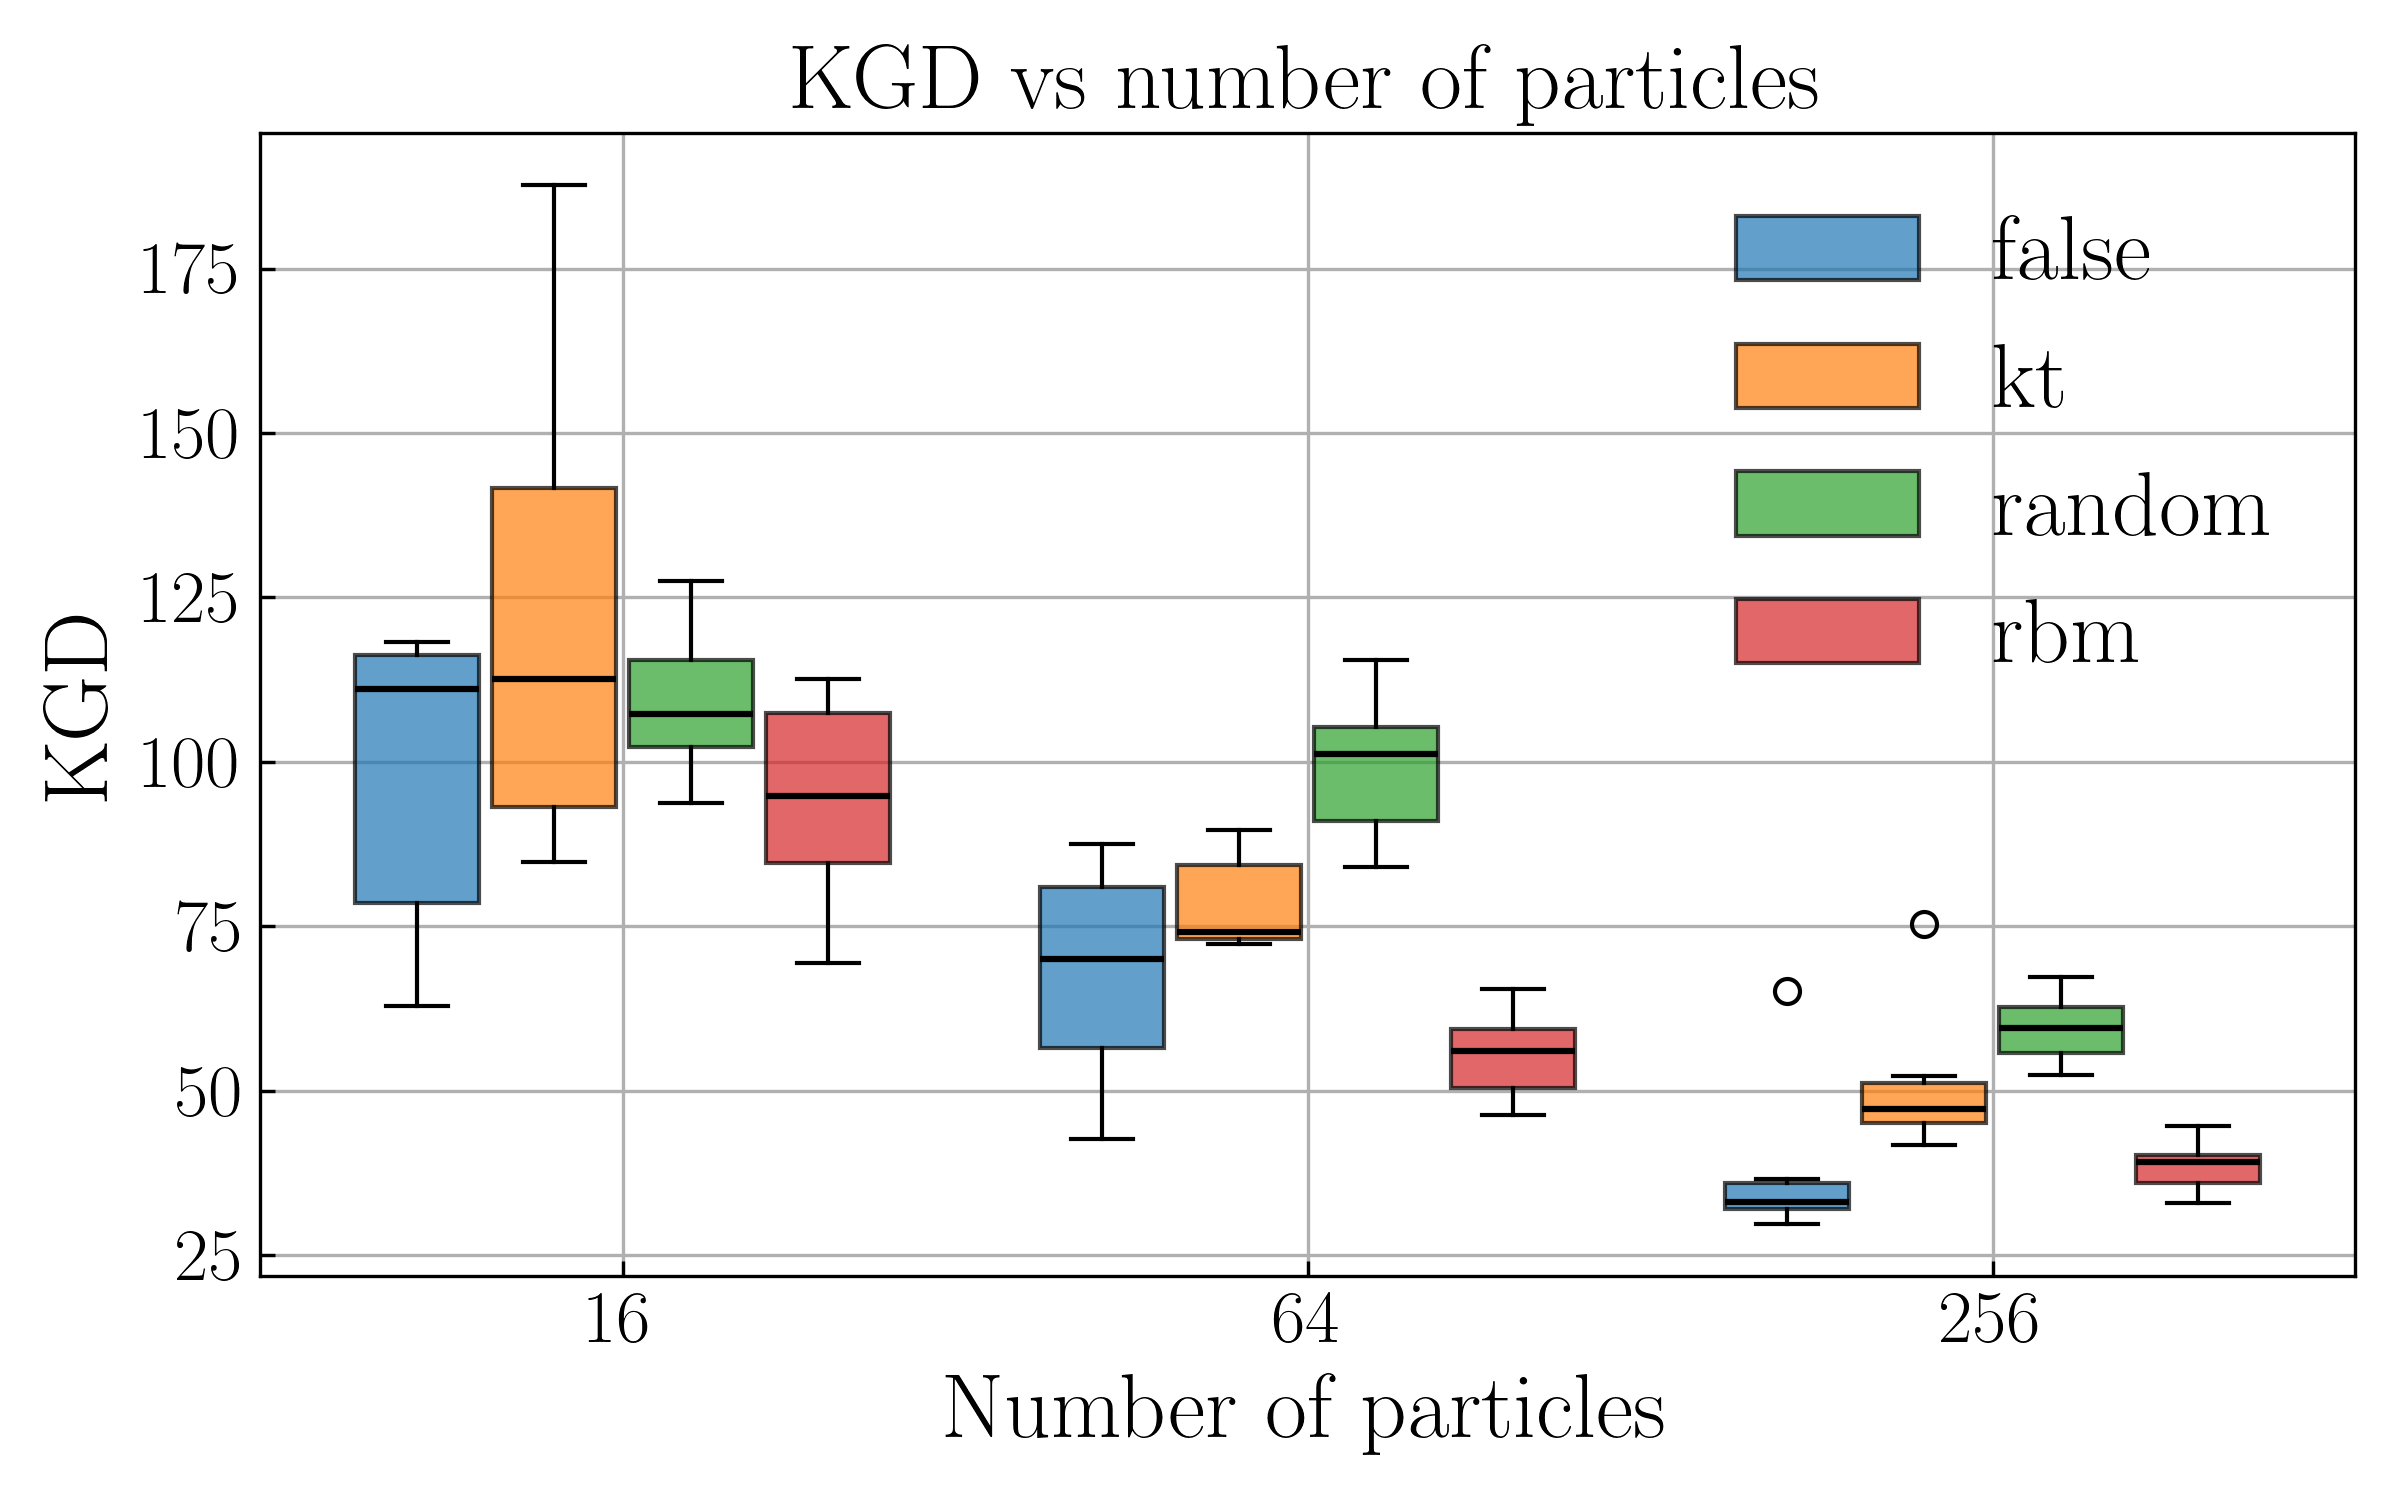
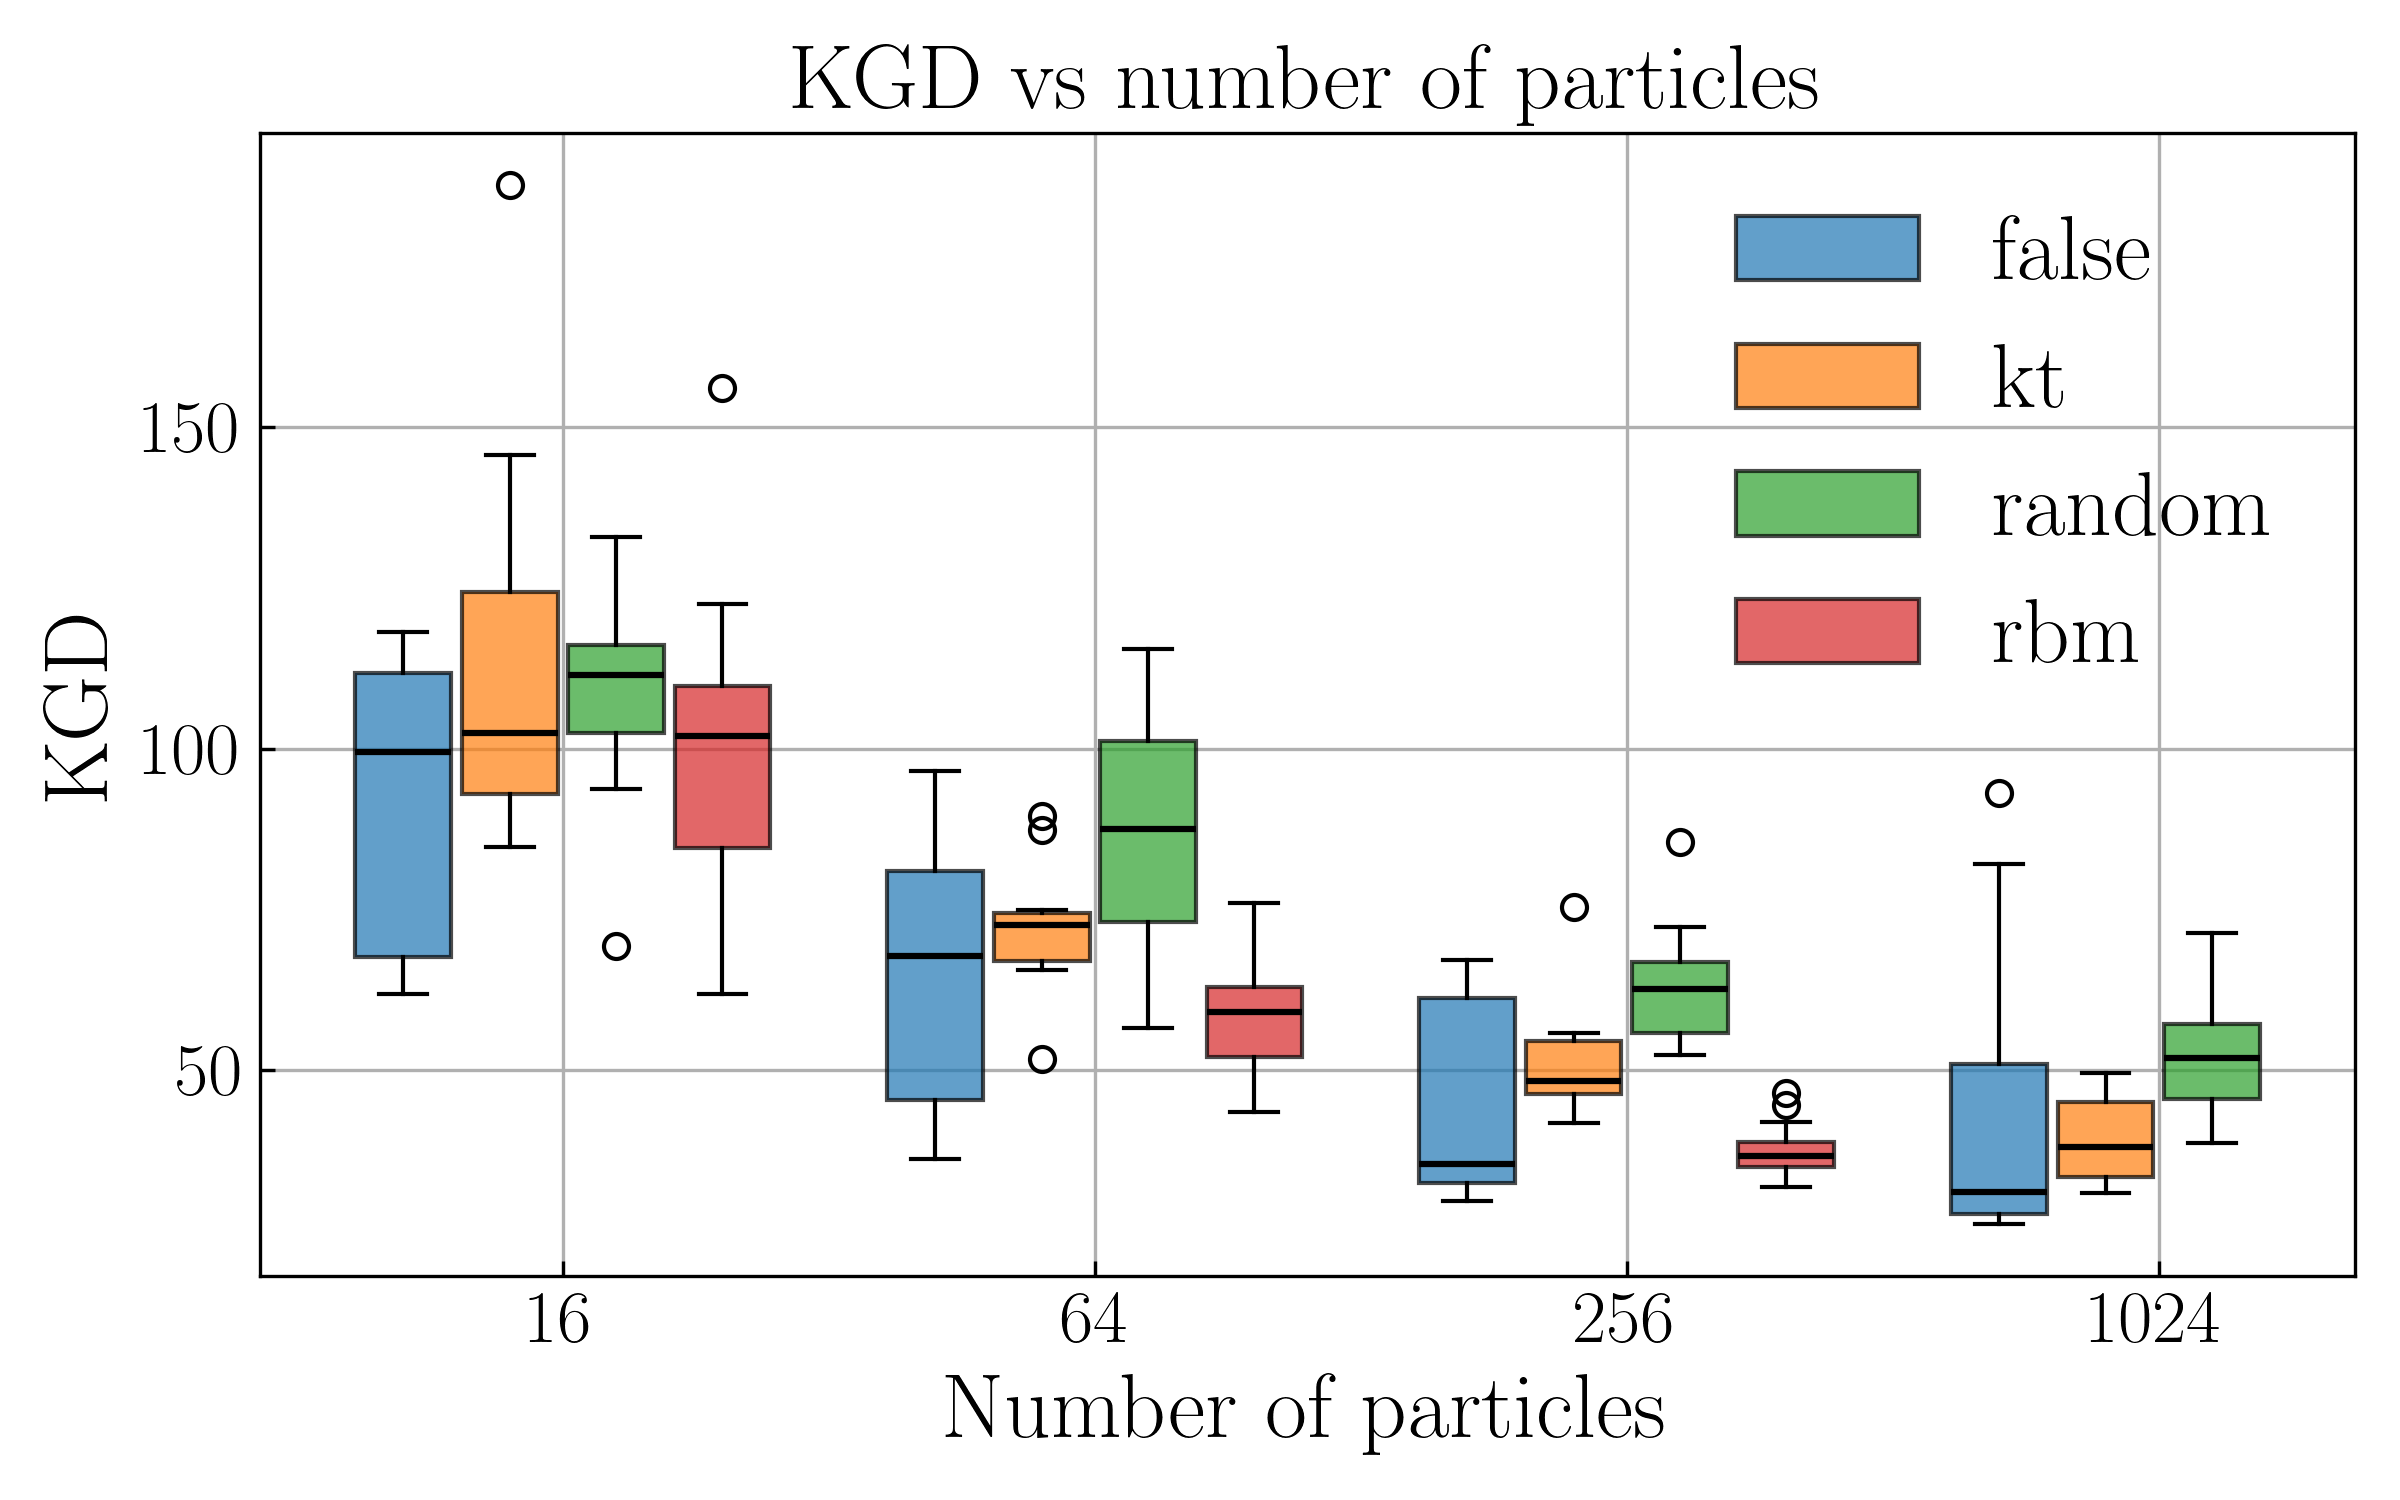
config

diff --git a/mfld.py b/mfld.py
@@ -228,19 +228,19 @@ class MFLD_vlm(MFLDBase):
             x_next = x - self.cfg.step_size * v + noise
         elif self.args.thinning == 'rbm':
             # Random batch method 
-            B = jnp.sqrt(x.shape[0]).astype(int)
-            x_batch_all = x.reshape((-1, B, x.shape[1]))
-            x_batch_new = 0. * x_batch_all
-            for b in range(B):
-                key, _ = random.split(key)
-                x_batch = x_batch_all[b, ...]
-                v = self.vector_field(x_batch, x_batch, key)
-                noise_scale = jnp.sqrt(2.0 * self.cfg.sigma * self.cfg.step_size)
-                key, _ = random.split(key)
-                noise = noise_scale * random.normal(key, shape=x_batch.shape)
-                x_batch = x_batch - self.cfg.step_size * v + noise
-                x_batch_new = x_batch_new.at[b, ...].set(x_batch)
-            x_next = x_batch_new.reshape((-1, x.shape[1]))
+            N, d = x.shape
+            B = jnp.sqrt(N).astype(int)
+            x_batch = x.reshape((B, B, d))  # (num_batches=B, batch_size=B, d)
+            key, subkey = random.split(key)
+            keys = random.split(subkey, B)
+
+            def vf_one_batch(xb, k):
+                # xb: (B, d)
+                return self.vector_field(xb, xb, k)  # -> (B, d)
+
+            v_batch = jax.vmap(vf_one_batch, in_axes=(0, 0))(x_batch, keys)  # (B, B, d)
+            v = v_batch.reshape((N, d))
+            x_next = x - self.cfg.step_size * v
         return (x_next, key), x_next
     
     def simulate(self, x0: Optional[Array] = None) -> Array:
@@ -318,19 +318,6 @@ class MFLD_mmd_flow(MFLDBase):
             x_next = x - self.cfg.step_size * v + noise
         elif self.args.thinning == 'rbm':
             # Random batch method 
-            # B = jnp.sqrt(x.shape[0]).astype(int)
-            # x_batch_all = x.reshape((-1, B, x.shape[1]))
-            # x_batch_new = 0. * x_batch_all
-            # for b in range(B):
-            #     key, subkey = random.split(key)
-            #     x_batch = x_batch_all[b, ...]
-            #     v = self.vector_field(x_batch, x_batch, key)
-            #     noise_scale = jnp.sqrt(2.0 * self.cfg.sigma * self.cfg.step_size)
-            #     key, _ = random.split(key)
-            #     noise = noise_scale * random.normal(key, shape=x_batch.shape)
-            #     x_batch = x_batch - self.cfg.step_size * v + noise
-            #     x_batch_new = x_batch_new.at[b, ...].set(x_batch)
-            # x_next = x_batch_new.reshape((-1, x.shape[1]))
             N, d = x.shape
             B = jnp.sqrt(N).astype(int)
             x_batch = x.reshape((B, B, d))  # (num_batches=B, batch_size=B, d)
